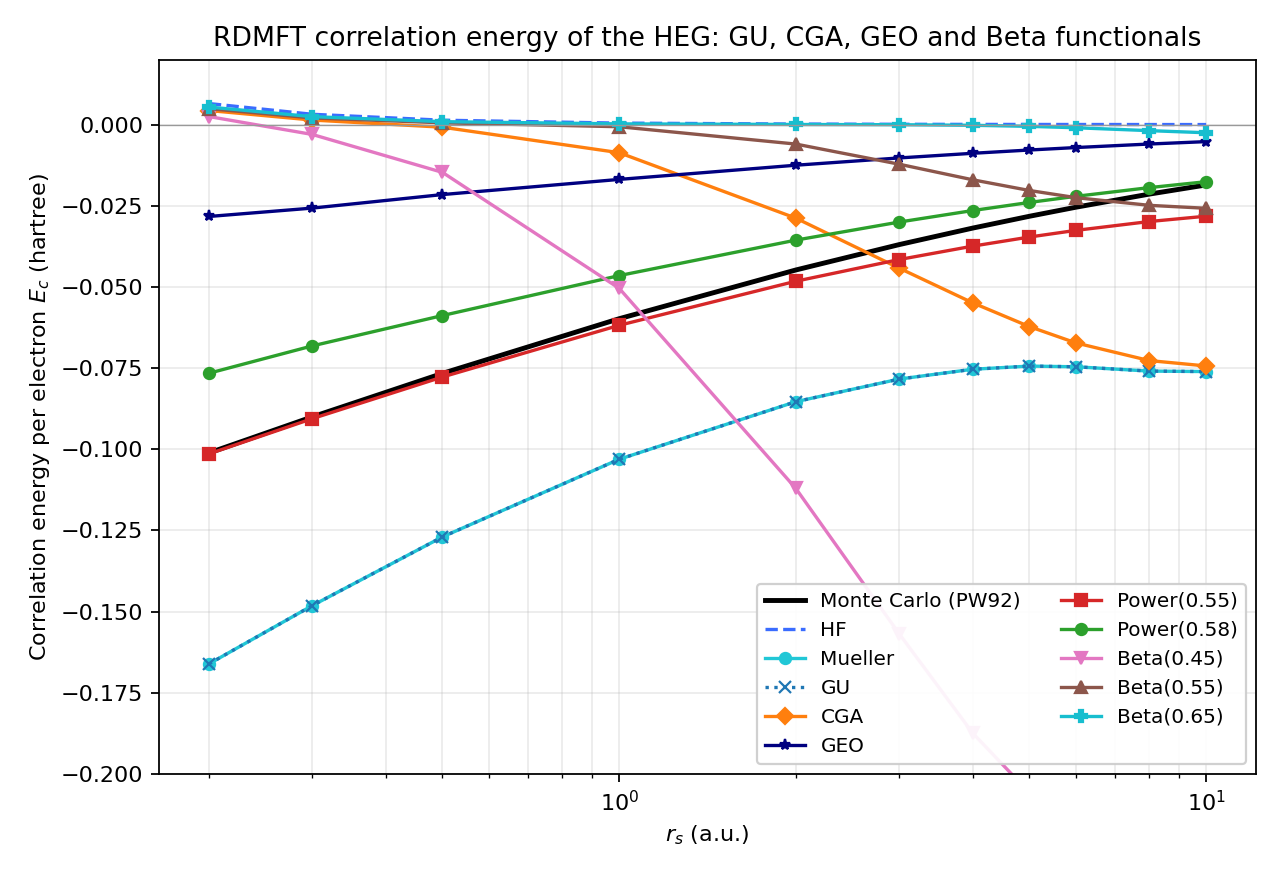
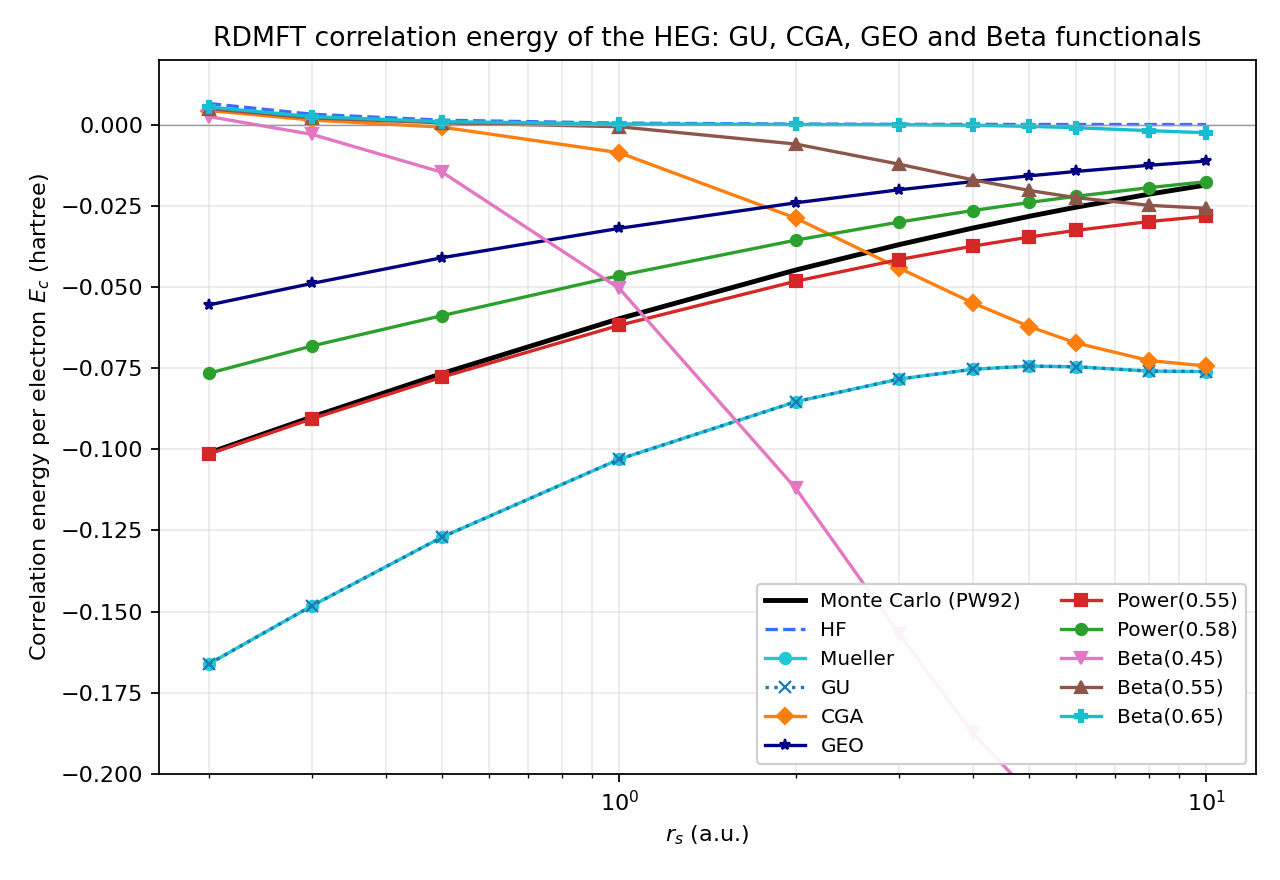
updated Geo def

diff --git a/include/Functional.hpp b/include/Functional.hpp
@@ -273,7 +273,7 @@ public:
         if (p <= 0.0) return 0.0;
         const double s12 = std::sqrt(p);            // (n_p n_q)^{1/2}
         const double s34 = std::pow(p, 0.75);       // (n_p n_q)^{3/4}
-        return 0.25 * (p + s12 + 2.0 * s34);
+        return 0.25 * (p + 2.0 * s12 +  s34);
     }
     double kernel_grad(double ni, double nj) const override {
         // d K / d n_i with n_j held fixed.  Differentiate term by term:
